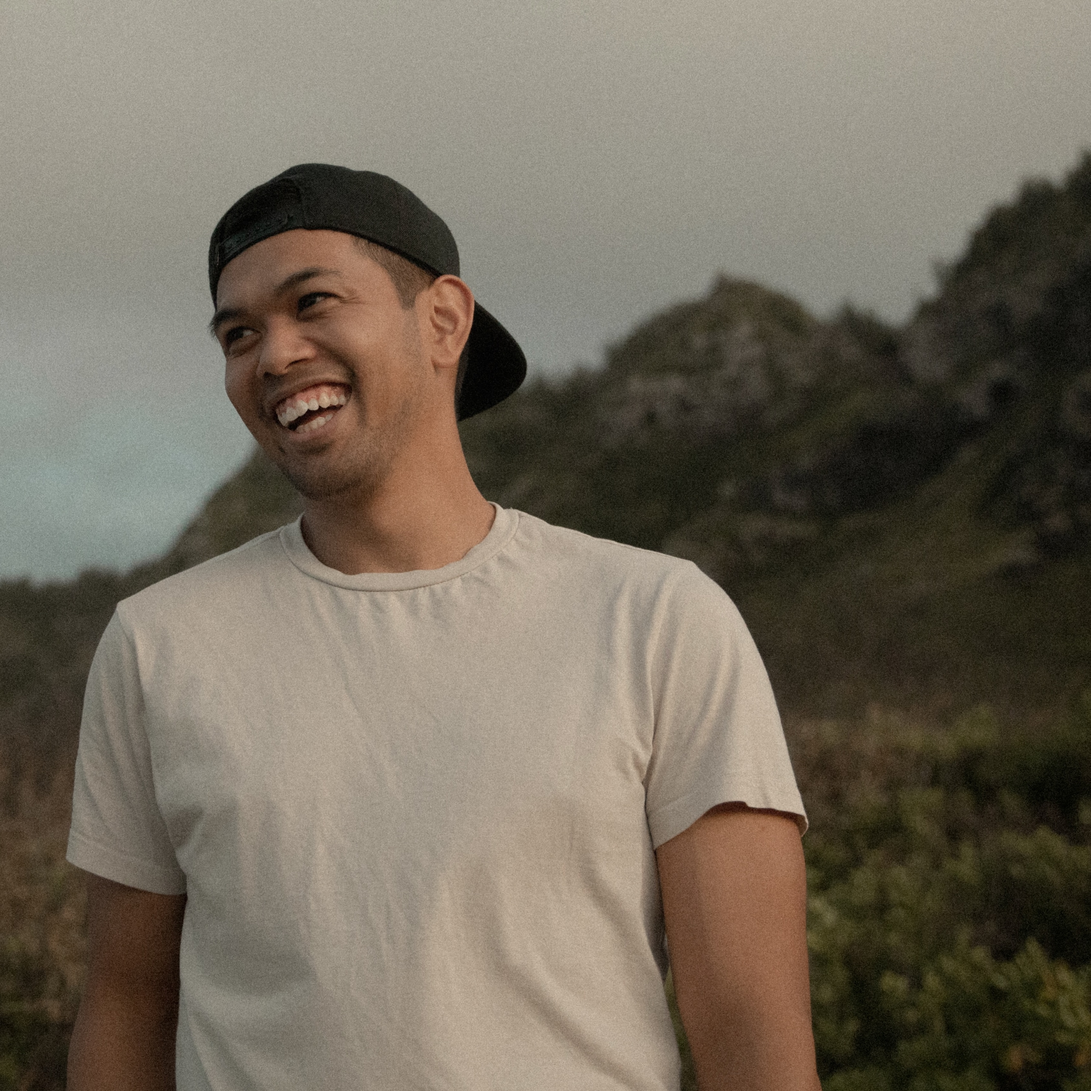
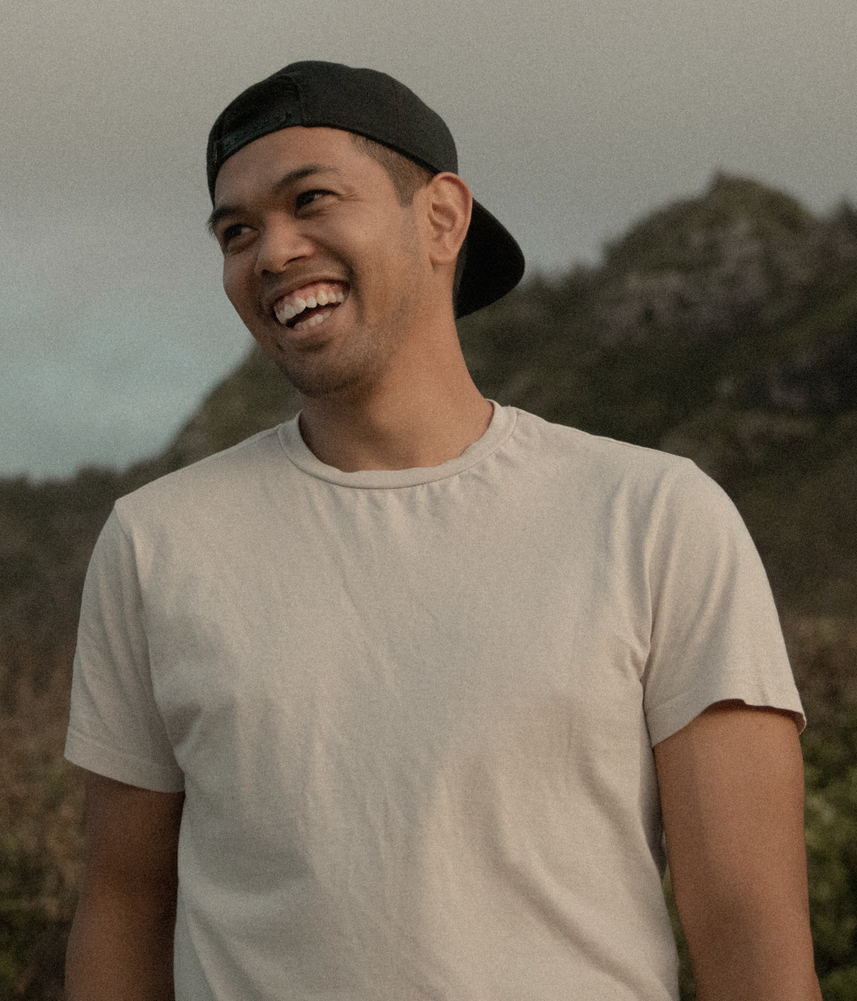
Bento redo (#4)
* Crop photo

* Fix Nav

* Make ThemeToggle.tsx a bento component

* Nuke blog

* Inline the Font Awesome script

* Cleanup home page elements

* Redo Bento for max Bento power

* Remove @tailwindcss/typography import

diff --git a/src/components/ThemeToggle.tsx b/src/components/ThemeToggle.tsx
@@ -25,7 +25,7 @@ export default function ThemeToggle() {
   };
   return (
     <button
-      className="flex h-8 w-8 cursor-pointer items-center justify-center rounded-full bg-zinc-200 hover:bg-zinc-300 dark:bg-zinc-800 dark:hover:bg-zinc-700"
+      className="flex h-full w-full cursor-pointer items-center justify-center rounded-lg bg-zinc-200 text-8xl hover:bg-zinc-300 dark:bg-zinc-800 dark:hover:bg-zinc-700"
       onClick={toggleTheme}
       aria-label={isDark ? "Switch to light mode" : "Switch to dark mode"}
     >

diff --git a/src/styles/global.css b/src/styles/global.css
@@ -1,6 +1,5 @@
 @import url("https://fonts.googleapis.com/css2?family=Special+Gothic+Expanded+One&display=swap");
 @import "tailwindcss";
-@plugin "@tailwindcss/typography";
 @custom-variant dark (&:where(.dark, .dark *));
 
 .name {
